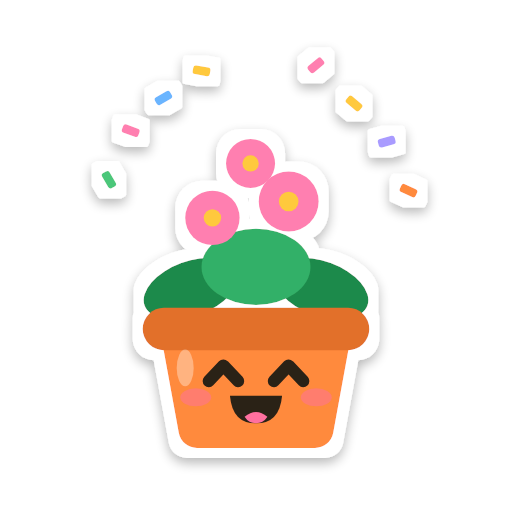
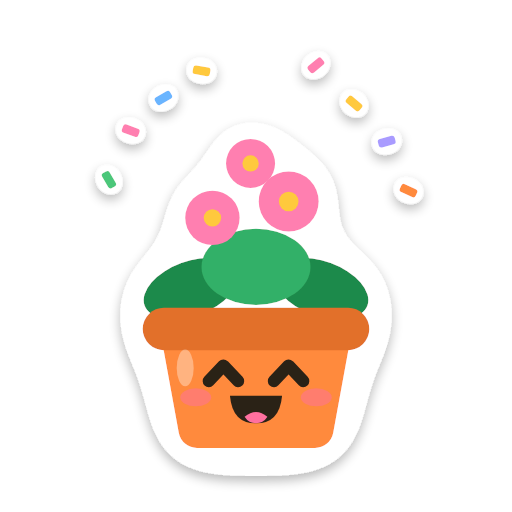
Smooth die-cut outline instead of one that follows every detail

diff --git a/build.js b/build.js
@@ -82,9 +82,13 @@ const SET = [
   ['12-wink', 'coleus', 'wink', 5, '😉', 'wink'],
 ];
 
-// White sticker outline with a soft shadow, drawn around everything in the group
+// White sticker outline with a soft shadow. Two blur + threshold masks, joined:
+// a thin round edge around every detail, and a smooth blob that fills the gaps between leaves.
+const EDGE = [1.3, .06, 30], BLOB = [5, .14, 120]; // [blur, cut, sharpness]: more blur = smoother, lower cut = wider
+const mask = ([blur, cut, k], out) => `<feGaussianBlur in="SourceAlpha" stdDeviation="${blur}"/>
+  <feComponentTransfer result="${out}"><feFuncA type="linear" slope="${k}" intercept="${-k * cut}"/></feComponentTransfer>`;
 const FILTER = `<filter id="o" x="-30%" y="-30%" width="160%" height="160%">
-  <feMorphology in="SourceAlpha" operator="dilate" radius="1.9" result="d"/>
+  ${mask(EDGE, 'e')}${mask(BLOB, 'b')}<feComposite in="e" in2="b" operator="over" result="d"/>
   <feFlood flood-color="#fff"/><feComposite in2="d" operator="in" result="w"/>
   <feGaussianBlur in="d" stdDeviation="1.1"/><feOffset dy=".9"/><feComponentTransfer><feFuncA type="linear" slope=".28"/></feComponentTransfer>
   <feMerge><feMergeNode/><feMergeNode in="w"/><feMergeNode in="SourceGraphic"/></feMerge></filter>`;
